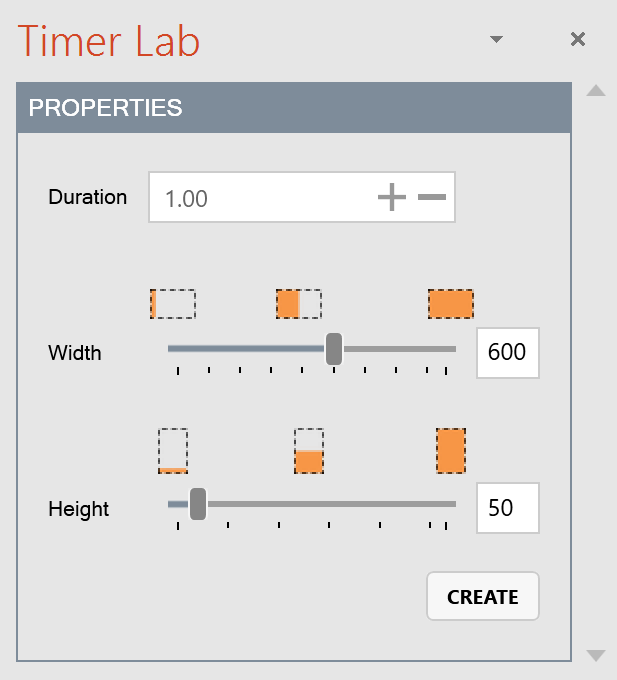
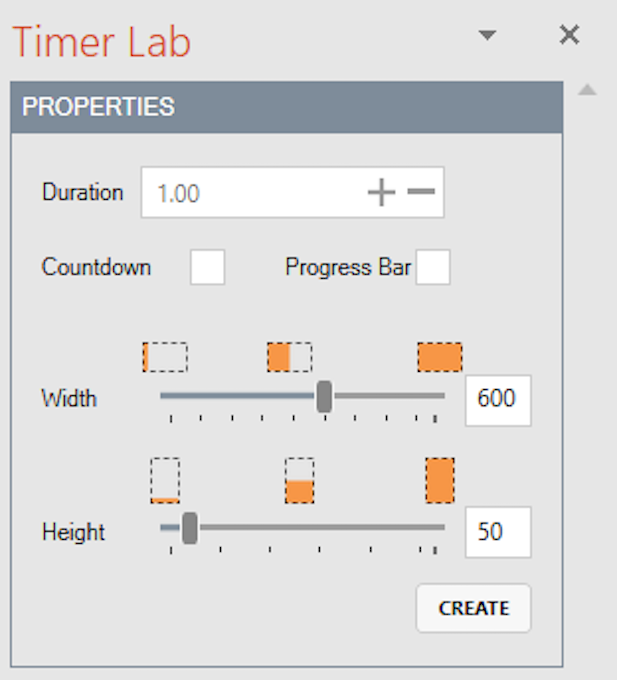
#1884 Update TimerLab User Guide with Countdown and Progress Bar mode (#95)
* Update TimerLab User Guide with Countdown and Progress Bar mode

* Replace gifs with smoother gifs

diff --git a/_docs/timer-lab.md b/_docs/timer-lab.md
@@ -86,6 +86,34 @@ You can select the entire line marker group, and change its color using *Shape O
 
 You can select the group of line marker text, and change its color using *Font Color*. 
 
+##<a class="anchor-bookmark" id="using-countdown-mode"></a> Using Countdown Mode
+
+You can change the mode of the timer to *Countdown mode*. Simply check the *Countdown mode* checkbox.
+
+<p>
+<img src="{{ site.baseurl }}/img/docs/timer-lab/image_16.png" onload='this.width = 100'/>
+</p>
+
+The countdown timer will now be in **Countdown mode**
+
+<p>
+<img src="{{ site.baseurl }}/img/docs/timer-lab/image_17.gif" onload='this.width = 700'/>
+</p>
+
+##<a class="anchor-bookmark" id="using-countdown-mode"></a> Using Progress Bar Mode
+
+You can change the mode of the timer to *Progress Bar mode*. Simply check the *Progress Bar mode* checkbox.
+
+<p>
+<img src="{{ site.baseurl }}/img/docs/timer-lab/image_18.png" onload='this.width = 100'/>
+</p>
+
+The countdown timer will now be in **Progress Bar mode**
+
+<p>
+<img src="{{ site.baseurl }}/img/docs/timer-lab/image_19.gif" onload='this.width = 700'/>
+</p>
+
 ##<a class="anchor-bookmark" id="timer-animations"></a> Timer Animations
 
 You can add animations for other objects that starts after the timer’s duration. Here is an example: 
